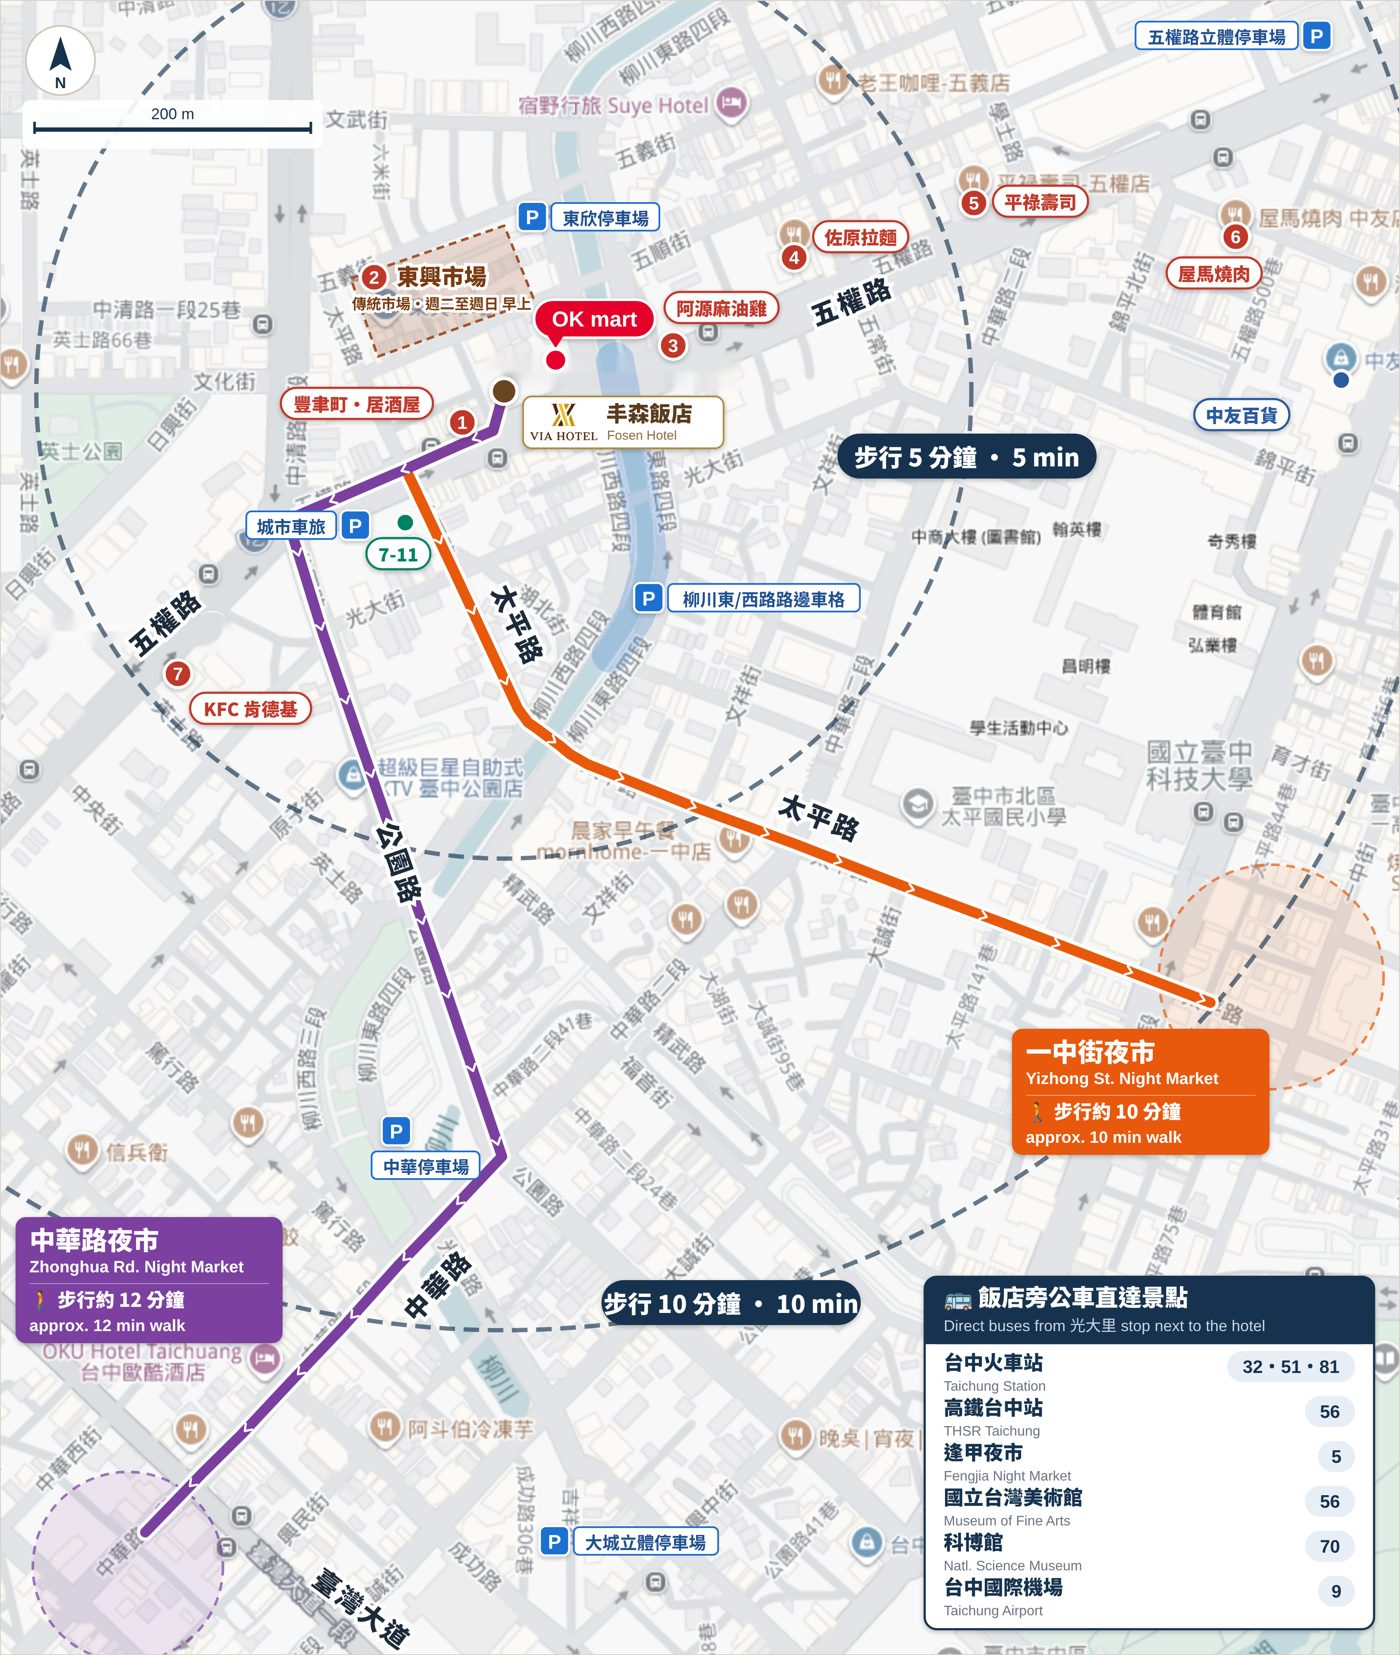
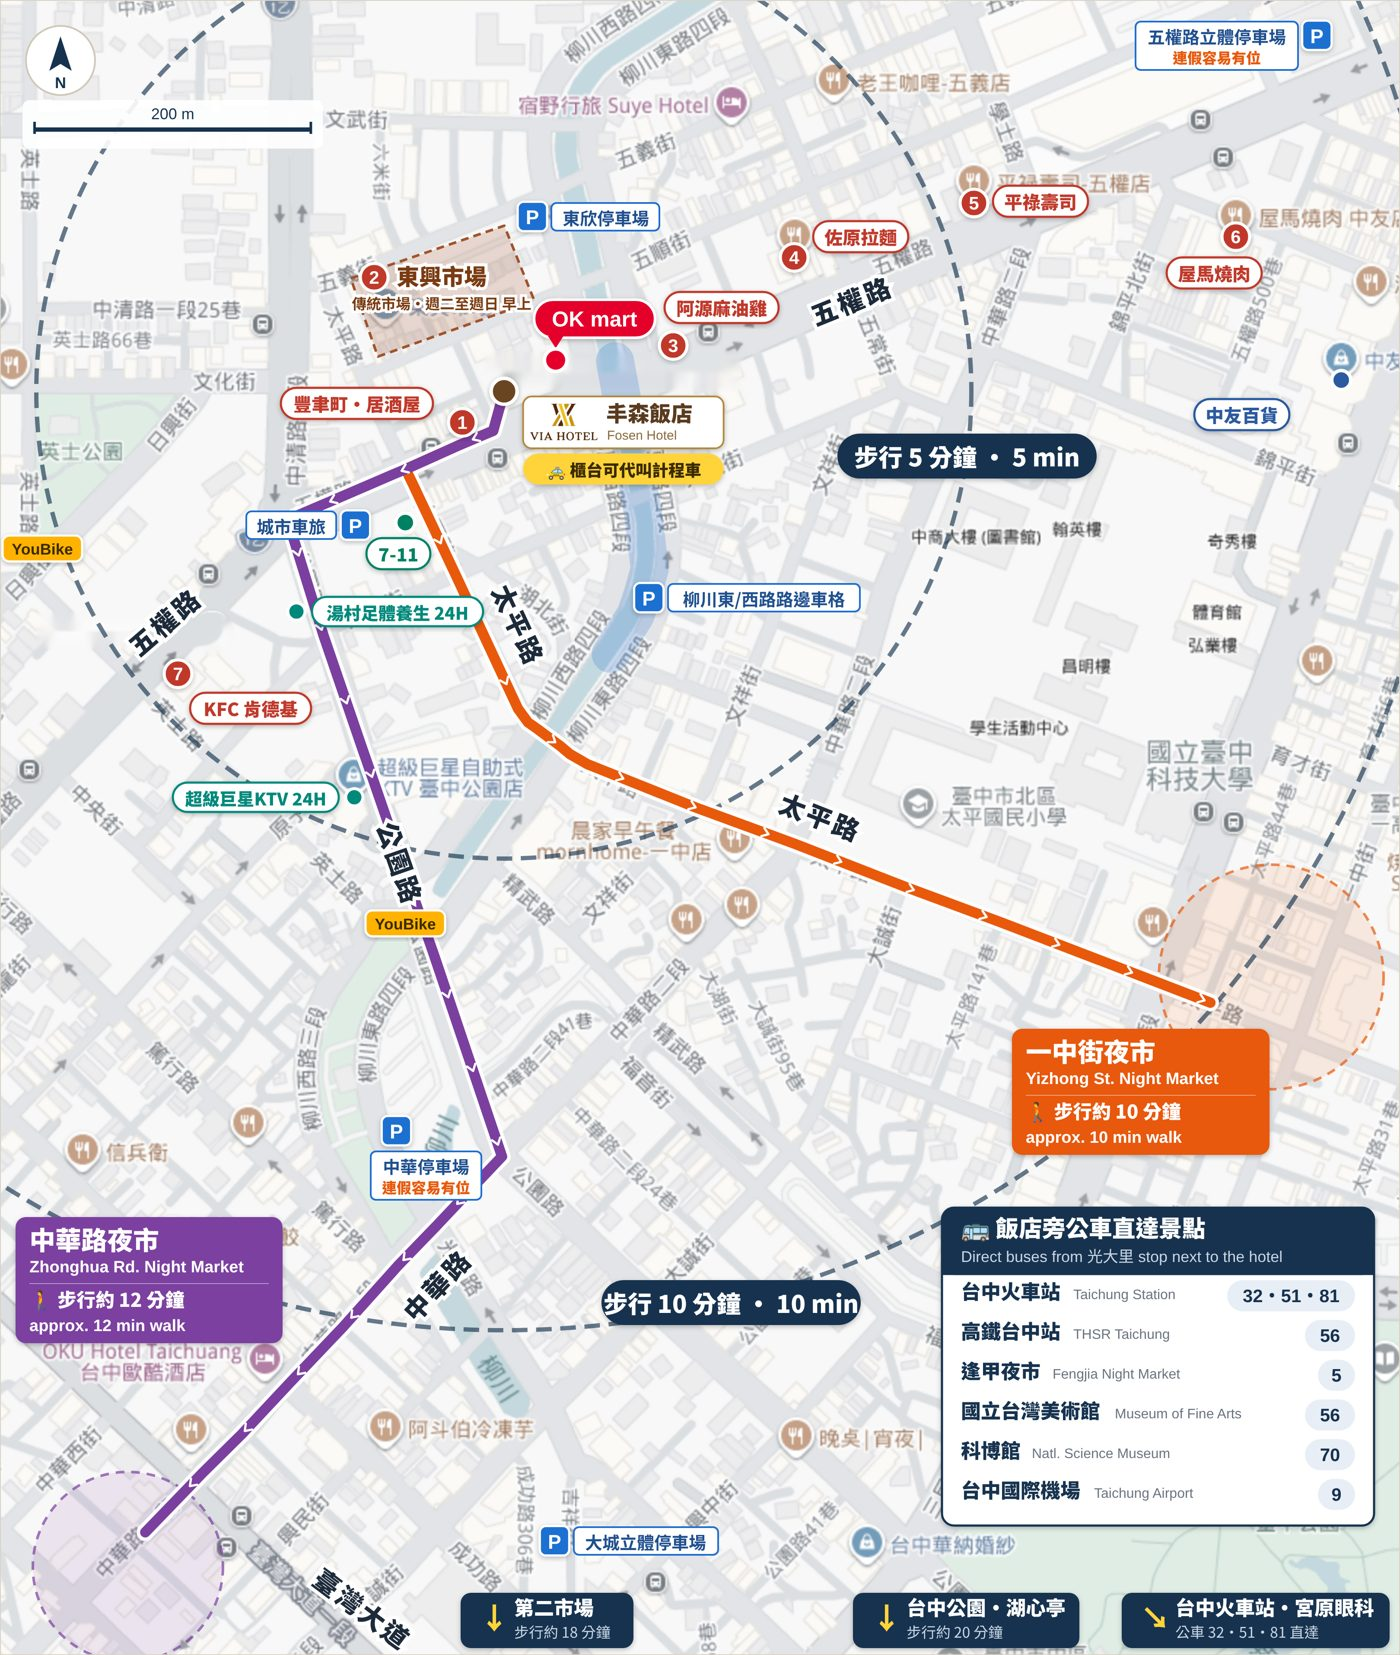
fosen guide: youbike, taxi, massage/KTV, parking headline
Claude-Session: https://claude.ai/code/session_0191sfXJKRonk2w8tJ8679Tx

diff --git a/fosen-guide/index.html b/fosen-guide/index.html
@@ -57,7 +57,7 @@ footer{max-width:720px;margin:0 auto;padding:10px 16px 40px;color:var(--mute);fo
   <p>夜市、美食、市場都在步行 10 分鐘內｜Night markets &amp; food within a 10-min walk</p>
 </header>
 <nav>
-  <a href="#map">地圖 Map</a><a href="#plans">一晚怎麼玩</a><a href="#market">夜市</a><a href="#sights">景點</a><a href="#food">美食</a><a href="#shop">購物便利</a><a href="#park">停車</a><a href="#bus">公車</a>
+  <a href="#map">地圖 Map</a><a href="#plans">一晚怎麼玩</a><a href="#market">夜市</a><a href="#sights">景點</a><a href="#food">美食</a><a href="#shop">購物便利</a><a href="#fun">娛樂</a><a href="#park">停車</a><a href="#bus">交通</a>
 </nav>
 <main>
 
@@ -219,7 +219,24 @@ footer{max-width:720px;margin:0 auto;padding:10px 16px 40px;color:var(--mute);fo
   <a class="go" href="https://www.google.com/maps/search/?api=1&query=OK%20mart&query_place_id=ChIJUwQ4xmw9aTQRMD351fOtQHg">OK mart 導航</a>
 </div>
 
+<h2 id="fun">娛樂放鬆 <small>Relax &amp; fun</small></h2>
+<div class="card">
+  <div class="no s" style="background:#00897b">足</div>
+  <div class="t">湯村足體養生會館<em>Foot &amp; body massage</em></div>
+  <div class="d">逛完夜市走累了，回飯店前按一下腳。就在公園路上。</div>
+  <div class="meta"><span class="tag ok">24 小時</span><span>🚶 步行約 3 分鐘</span></div>
+  <a class="go" href="https://www.google.com/maps/search/?api=1&query=%E6%B9%AF%E6%9D%91%E9%BA%97%E7%B7%BB%E8%B6%B3%E9%AB%94%E9%A4%8A%E7%94%9F%E6%9C%83%E9%A4%A8&query_place_id=ChIJw0aPWwl2bjQRjAt4txVCtdM">Google 導航</a>
+</div>
+<div class="card">
+  <div class="no s" style="background:#00897b">唱</div>
+  <div class="t">超級巨星自助式 KTV 臺中公園店<em>Karaoke</em></div>
+  <div class="d">半夜還想續攤也有地方去。</div>
+  <div class="meta"><span class="tag ok">24 小時</span><span>🚶 步行約 5 分鐘</span></div>
+  <a class="go" href="https://www.google.com/maps/search/?api=1&query=%E8%B6%85%E7%B4%9A%E5%B7%A8%E6%98%9FKTV&query_place_id=ChIJ77VlJ249aTQRj5WmdK6Tx6w">Google 導航</a>
+</div>
+
 <h2 id="park">停車資訊 <small>Parking</small></h2>
+<p class="lead">步行 10 分鐘內就有 5 個停車場，連假也好停。</p>
 <div class="card">
   <div class="no p">P</div>
   <div class="t">中華停車場</div>
@@ -240,7 +257,7 @@ footer{max-width:720px;margin:0 auto;padding:10px 16px 40px;color:var(--mute);fo
   <div class="d">飯店旁柳川兩側路邊停車格，20:00～08:00 不收費。</div>
 </div>
 
-<h2 id="bus">公車直達景點 <small>Buses</small></h2>
+<h2 id="bus">交通 <small>Getting around</small></h2>
 <p class="lead">飯店旁「光大里」站搭車即可直達。Direct buses from the 光大里 stop next to the hotel.</p>
 <table>
   <tr><td>台中火車站<small>Taichung Station</small></td><td class="r">32・51・81</td></tr>
@@ -250,6 +267,16 @@ footer{max-width:720px;margin:0 auto;padding:10px 16px 40px;color:var(--mute);fo
   <tr><td>科博館<small>Natl. Museum of Natural Science</small></td><td class="r">70</td></tr>
   <tr><td>台中國際機場<small>Taichung Airport</small></td><td class="r">9</td></tr>
 </table>
+<div class="card" style="margin-top:14px">
+  <div class="no s" style="background:#ffb300;color:#3a2a00">🚲</div>
+  <div class="t">YouBike 公共自行車</div>
+  <div class="d">飯店附近公園路、英士公園都有站，騎到一中街、台中公園、第二市場都很方便。台中市註冊會員前 30 分鐘免費（以 YouBike 官方公告為準）。</div>
+</div>
+<div class="card">
+  <div class="no s" style="background:#ffd43b;color:#3a2a00">🚕</div>
+  <div class="t">叫計程車 Taxi</div>
+  <div class="d">需要搭計程車，請告訴櫃台，我們幫您叫車。Ask the front desk and we'll call a taxi for you.</div>
+</div>
 <p class="lead" style="margin-top:8px">即時到站請查 <a href="https://citybus.taichung.gov.tw/">台中市公車動態</a>。</p>
 
 </main>
